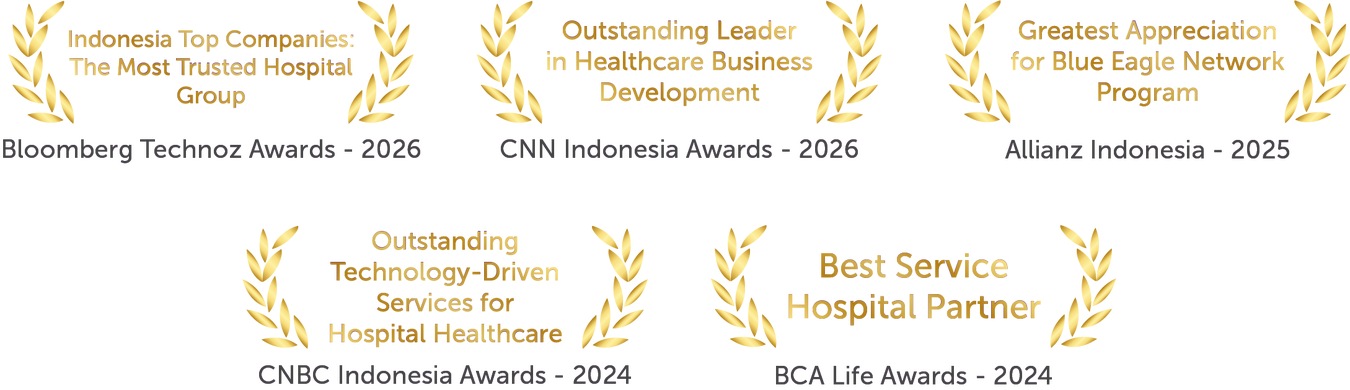
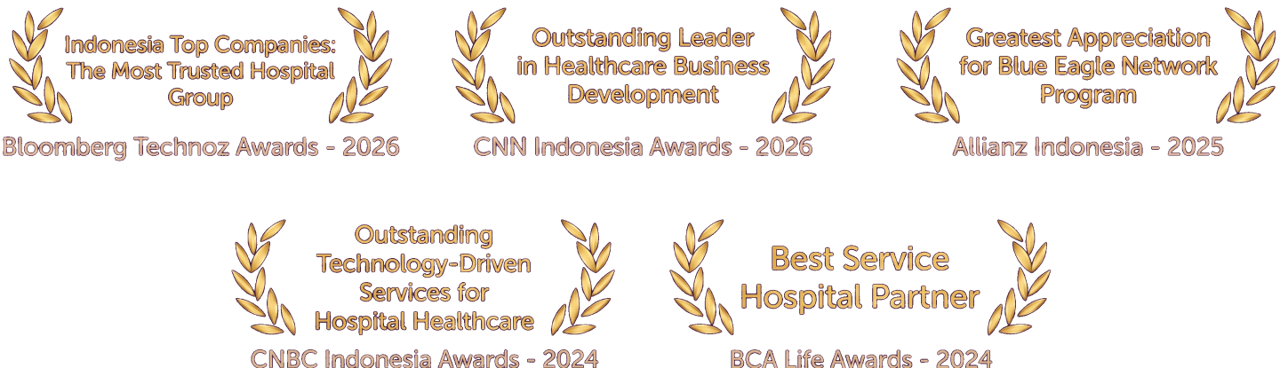
update

diff --git a/index.html b/index.html
@@ -60,7 +60,7 @@
   .hero-content{flex:1;position:relative;z-index:1}
   .hero-img-wrap{flex:1;position:relative;z-index:1}
   .hero-img-wrap img{width:100%;border-radius:24px;box-shadow:0 20px 50px rgba(0,0,0,0.3);display:block;}
-  .hero-awards{margin-top:18px;background:rgba(255,255,255,.94);border-radius:16px;padding:14px 18px;box-shadow:0 14px 34px rgba(0,0,0,.22)}
+  .hero-awards{margin-top:20px}
   .hero-awards img{width:100%;display:block;border-radius:0;box-shadow:none}
   .hero-breadcrumb{font-size:13px;color:rgba(255,255,255,.7);margin-bottom:20px;text-transform:uppercase;letter-spacing:0.05em;font-weight:600}
   .hero-breadcrumb span{color:var(--accent)}
@@ -321,7 +321,7 @@
     .hero-bullets{gap:10px;margin:20px 0 28px}
     .hero-bullets li{font-size:14.5px;padding-left:30px;max-width:100%}
     .hero-img-wrap img{max-width:100%;border-radius:18px}
-    .hero-awards{margin-top:14px;padding:12px 14px;border-radius:12px}
+    .hero-awards{margin-top:16px}
 
     /* BUTTON ROWS → FULL WIDTH STACK */
     .btn{padding:15px 24px;min-height:50px;width:100%}
